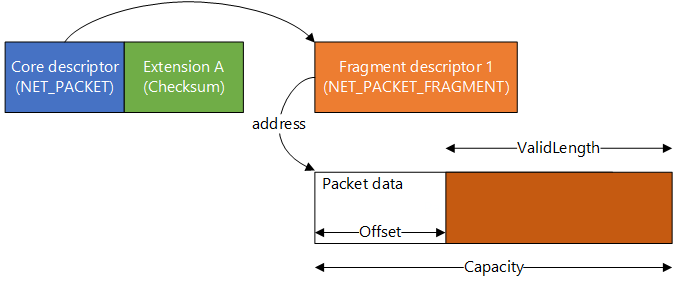
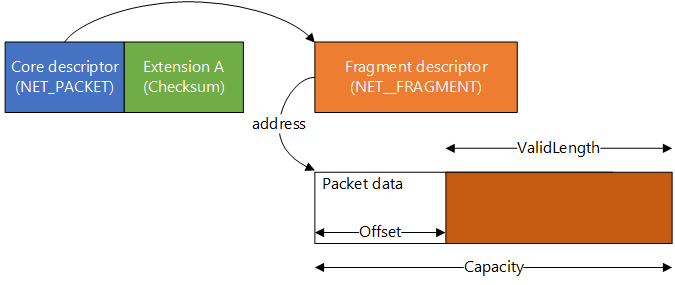
Tying up loose ends with conceptual material for Vibranium

Changed region(s): [[0.4667, 0.1965, 0.7467, 0.3368]]

diff --git a/windows-driver-docs-pr/netcx/packet-descriptors-and-extensions.md b/windows-driver-docs-pr/netcx/packet-descriptors-and-extensions.md
@@ -4,9 +4,9 @@ description: Packet descriptors and extensions
 ms.assetid: 7B2357AE-F446-4AE8-A873-E13DF04D8D71
 keywords:
 - WDF Network Adapter Class Extension Packet descriptors and extensions, NetAdapterCx datapath descriptors, multi-ring buffers, NetAdapterCx packet descriptors, NetAdapterCx packet extensions
-ms.date: 01/30/2019
+ms.date: 11/04/2019
 ms.localizationpriority: medium
-ms.custom: 19H1
+ms.custom: Vib
 ---
 
 # Packet descriptors and extensions
@@ -17,11 +17,11 @@ In NetAdapterCx, *packet descriptors* are small, compact, runtime-extensible str
 - One or more fragment descriptors
 - Zero or more packet extensions 
 
-The *core descriptor* of the packet is the [**NET_PACKET**](https://docs.microsoft.com/windows-hardware/drivers/ddi/netpacket/ns-netpacket-_net_packet) structure. It contains only the most basic metadata applicable to all packets, such as the framing layout of a given packet and the index to the packet's first fragment descriptor.   
+The *core descriptor* of the packet is the [**NET_PACKET**](https://docs.microsoft.com/windows-hardware/drivers/ddi/packet/ns-packet-_net_packet) structure. It contains only the most basic metadata applicable to all packets, such as the framing layout of a given packet and the index to the packet's first fragment descriptor.   
 
-Each packet must also have one or more *fragment descriptors*, or [**NET_PACKET_FRAGMENT**](https://docs.microsoft.com/windows-hardware/drivers/ddi/netpacket/ns-netpacket-_net_packet_fragment) structures, that describe the location within system memory where the packet data resides.
+Each packet must also have one or more *fragment descriptors*, or [**NET_FRAGMENT**](https://docs.microsoft.com/windows-hardware/drivers/ddi/fragment/ns-fragment-_net_fragment) structures, that describe the location within system memory where the packet data resides.
 
-*Packet extensions* are optional and hold per-packet metadata for scenario-specific features. For instance, extensions can hold offload information for checksum, large send offload (LSO), and receive segment coalescence (RSC), or they can hold application-specific details.
+*Extensions* are optional and hold per-packet or per-fragment metadata for scenario-specific features. For instance, packet extensions can hold offload information for checksum, large send offload (LSO), and receive segment coalescence (RSC), or they can hold application-specific details. Fragment extensions can hold virtual address information, logical DMA address information, or other information for the fragment.
 
 Together, these descriptors and extensions hold all the metadata about a network packet. Here are two examples of how they describe a packet. The first figure shows a scenario where the entire packet is stored inside a single memory fragment and checksum offload has been turned on.
 
@@ -128,5 +128,5 @@ Additionally, NetAdapterCx provides three helper methods that act as wrappers ar
 | Method | Structure |
 | --- | --- |
 | [**NetExtensionGetPacketChecksum**](https://docs.microsoft.com/windows-hardware/drivers/ddi/checksum/nf-checksum-netextensiongetpacketchecksum) | [**NET_PACKET_CHECKSUM**](https://docs.microsoft.com/windows-hardware/drivers/ddi/checksumtypes/ns-checksumtypes-_net_packet_checksum) |
-| [**NetExtensionGetLargeSendSegmentation**](https://docs.microsoft.com/windows-hardware/drivers/ddi/lso/nf-lso-netextensiongetpacketlargesendsegmentation) | [**NET_PACKET_LARGE_SEND_SEGMENTATION**](https://docs.microsoft.com/windows-hardware/drivers/ddi/lsotypes/ns-lsotypes-_net_packet_large_send_segmentation)
-| [**NetExtensionGetPacketReceiveSegmentCoalescence**](https://docs.microsoft.com/windows-hardware/drivers/ddi/rsc/nf-rsc-netextensiongetpacketreceivesegmentcoalescence) | [**NET_PACKET_RECEIVE_SEGMENT_COALESCENCE**](https://docs.microsoft.com/windows-hardware/drivers/ddi/rsctypes/ns-rsctypes-_net_packet_receive_segment_coalescence) |
+| [**NetExtensionGetLso**](https://docs.microsoft.com/windows-hardware/drivers/ddi/lso/nf-lso-netextensiongetpacketlso) | [**NET_PACKET_LSO**](https://docs.microsoft.com/windows-hardware/drivers/ddi/lsotypes/ns-lsotypes-_net_packet_lso)
+| [**NetExtensionGetPacketRsc**](https://docs.microsoft.com/windows-hardware/drivers/ddi/rsc/nf-rsc-netextensiongetpacketrsc) | [**NET_PACKET_RSC**](https://docs.microsoft.com/windows-hardware/drivers/ddi/rsctypes/ns-rsctypes-_net_packet_rsc) |

diff --git a/windows-driver-docs-pr/netcx/index.md b/windows-driver-docs-pr/netcx/index.md
@@ -13,12 +13,9 @@ ms.custom: 19H1
 
 # Network Adapter WDF Class Extension (NetAdapterCx)
 
-> [!NOTE]
-> The first official release of NetAdapterCx is version 2.0. All versions before 2.0 are prerelease versions and are no longer supported. Any NetAdapterCx client driver written for a prerelease version of the framework must be rebuilt for 2.0. For more info, see [Introduction to NetAdapterCx 2.0](introduction-to-netadaptercx-2-0.md) and [Building a NetAdapterCx client driver](building-a-netadaptercx-client-driver.md).
-
 ## Overview
 
-Starting in Windows 10, version 1703, the Windows Driver Kit (WDK) includes a Network Adapter WDF Class Extension module (NetAdapterCx) that enables you to write a KMDF-based client driver for a Network Interface Controller (NIC). NetAdapterCx gives you the power and flexibility of WDF and the networking performance of NDIS, and makes it easy to write a driver for your NIC.
+Starting in the next version of Windows 10, the Windows Driver Kit (WDK) includes a Network Adapter WDF Class Extension module (NetAdapterCx) that enables you to write a KMDF-based client driver for a Network Interface Controller (NIC). NetAdapterCx gives you the power and flexibility of WDF and the networking performance of NDIS, and makes it easy to write a driver for your NIC.
 
 In previous versions of Windows, WDF and NDIS had individual advantages, but did not interoperate well. The only way to write a NIC driver was to write an NDIS miniport driver. To use WDF in an NDIS miniport driver, you had to write extra code in your driver, and even then, you only had access to a small subset of WDF functionality.
 

diff --git a/windows-driver-docs-pr/netcx/netadaptercx-version-overview.md b/windows-driver-docs-pr/netcx/netadaptercx-version-overview.md
@@ -1,0 +1,27 @@
+---
+title: NetAdapterCx version overview
+description: This topic lists versions of the Network Adapter WDF Class Extension (NetAdapterCx).
+ms.assetid: 14847DED-FC24-4020-8526-D5F3A85882EB
+keywords:
+- Version overview Network Adapter Class Extension, version overview NetAdapterCx, version overview NetCx
+ms.author: windowsdriverdev
+ms.date: 11/04/2019
+ms.localizationpriority: medium
+ms.custom: Vib
+---
+
+# NetAdapterCx version overview
+
+This section highlights new features for the Network Adapter WDF Class Extension (NetAdapterCx). Use the following topics to learn more about the changes in each version of NetAdapterCx.
+
+The current version of NetAdapterCx is **2.0**.
+
+Windows OS support for NetAdapterCx versions are described in the following table.
+
+| Operating system | Supported NetAdapterCx version | Version notes |
+| --- | --- | --- |
+| The next version of Windows 10 | 2.0 | Initial release |
+
+> [!IMPORTANT]
+> NetAdapterCx client drivers written in previous versions will not work in the latest version of Windows until they are retargeted to the current version.
+

diff --git a/windows-driver-docs-pr/netcx/building-a-netadaptercx-client-driver.md b/windows-driver-docs-pr/netcx/building-a-netadaptercx-client-driver.md
@@ -19,7 +19,7 @@ Use the following steps to create a new NetAdapter client driver in Visual Studi
 3. To open the Driver Property Page dialog, choose **Project > Properties**.
 4. In the **Configuration Properties > Driver Settings > Network Adapter Driver** dialog box, select the **Link to the Network Adapter Class Extension** dropdown and set to **Yes**.
 5. In the **Configuration Properties > Driver Settings > Network Adapter Driver** dialog box, select **Network Adapter Major Version** and **Network Adapter Minor Version**.
-    1. The current version of NetAdapterCx is **1.3**.
+    1. The current version of NetAdapterCx is **2.0**.
 6. Add the following header to every source file (or to your common/precompiled header):
 
 ```C++
